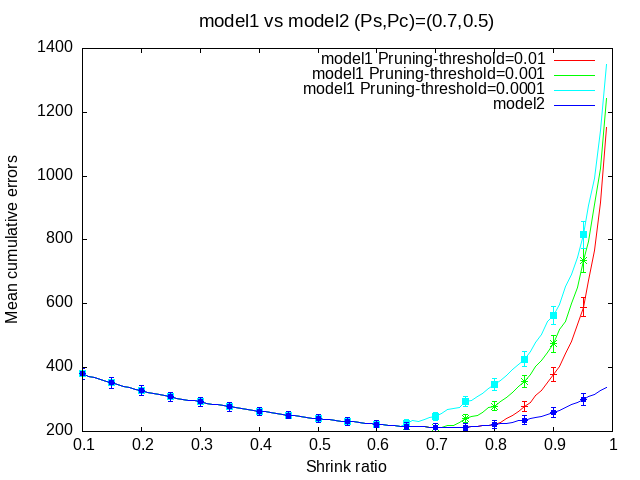
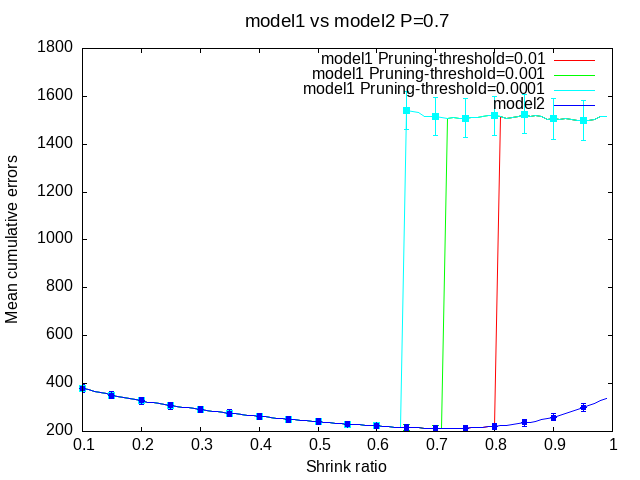
modified

diff --git a/models/model1.py b/models/model1.py
@@ -20,15 +20,14 @@ class model1(kernelPerceptron):
         if self.ClassificationErr(x,y) < 0:
             if len(self.kernels) < self.budget:
                 self.kernels.append(kernel(x, y, self.gamma))
-                self.Shrink(self.phi)
             else:
                 targetKernel = self.getOldestKernel()
                 if targetKernel.sigma * self.phi < self.RmThreshold:
                     self.kernels.remove(targetKernel)
                     self.kernels.append(kernel(x, y, self.gamma))
-                    self.Shrink(self.phi)
                     if self.DEBUG:
                         print(f"model1.Learning() remove oldest kernel")
+	    self.Shrink(self.phi)
 
     def getOldestKernel(self) -> kernel:
         OldestObj = min(self.kernels, key=lambda k: k.sigma)
